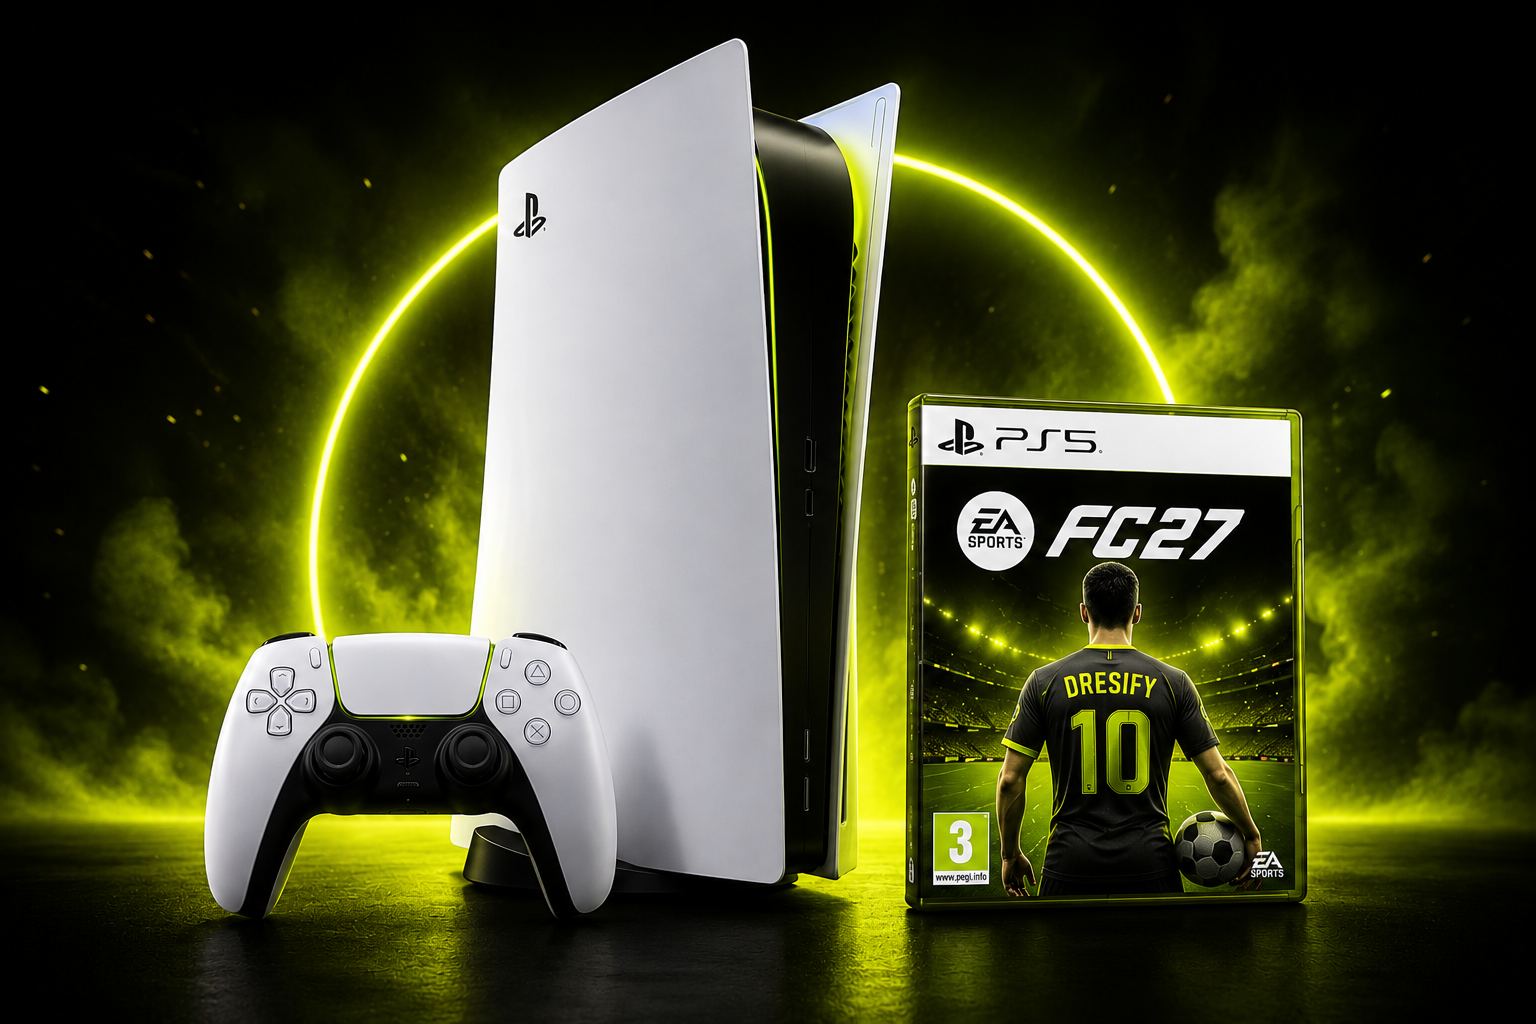
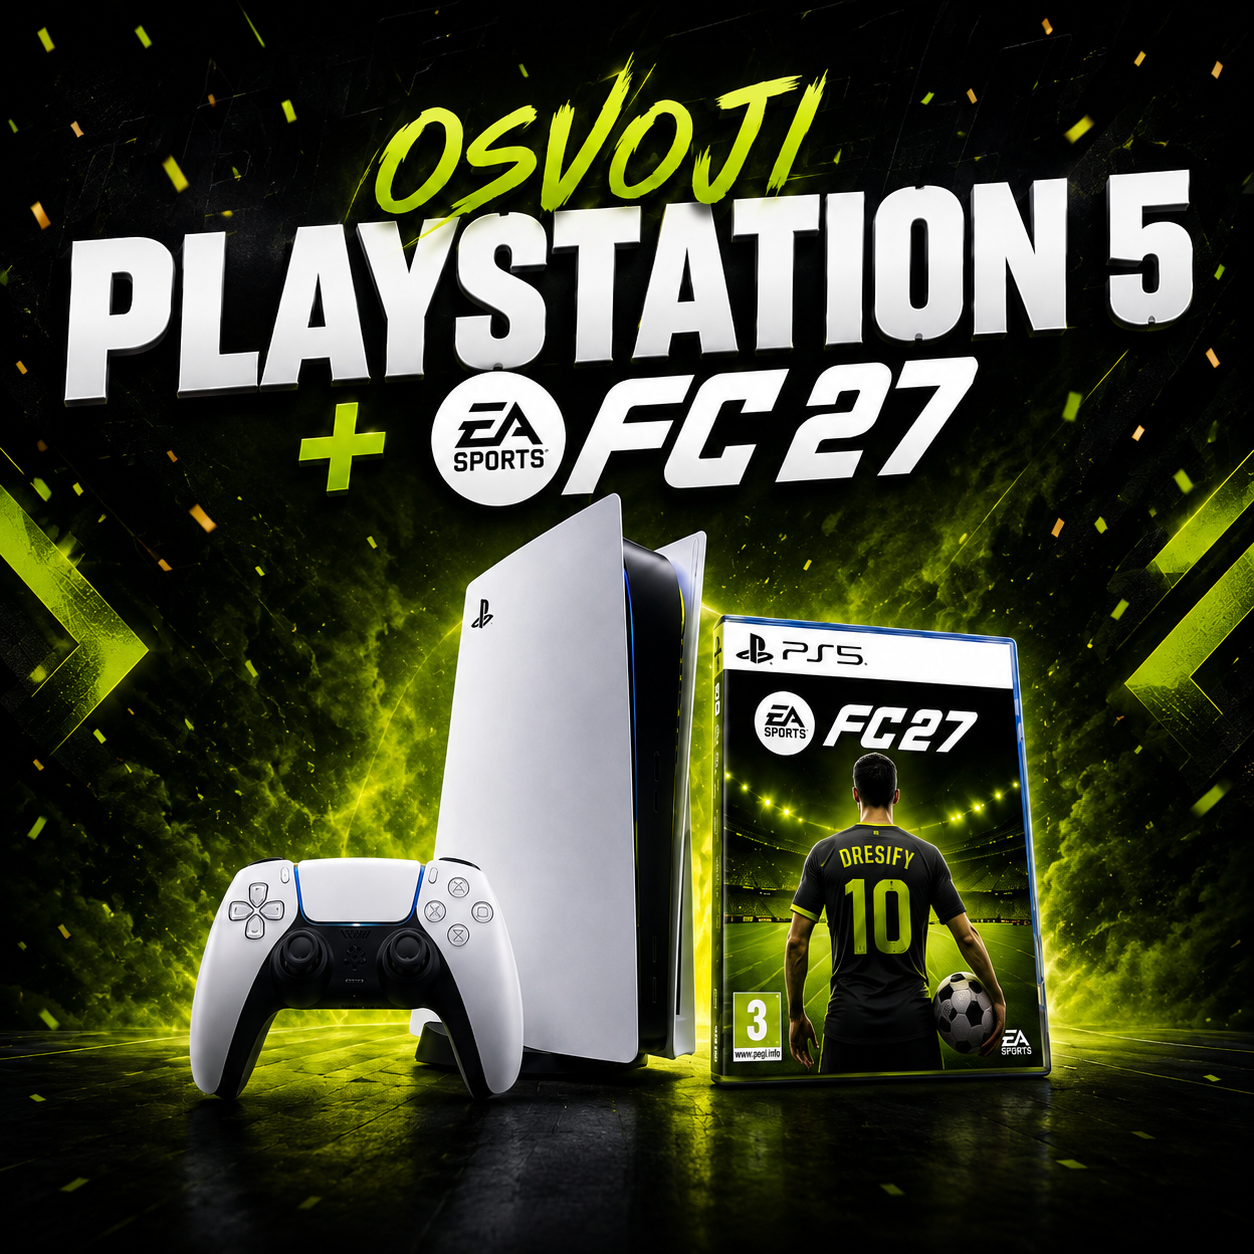
feat: new PS5 giveaway hero image + Instagram Graph API follower count
- Replace /ps5/hero.png with the new square PS5 + FC27 artwork (used by the /ps5
  page and the hero carousel slide).
- Switch follower count from the paused Behold feed to the official Instagram
  Graph API (followers_count) — free with generous limits. Needs IG_USER_ID +
  IG_GRAPH_TOKEN env; falls back to the last known value without them.

diff --git a/lib/ig-stats.ts b/lib/ig-stats.ts
@@ -2,18 +2,25 @@ import "server-only";
 
 import { unstable_cache } from "next/cache";
 
-// Broj Instagram pratitelja dolazi iz istog Behold feeda koji već koristimo za widget
-// (components/home/instagram-section.tsx). Behold JSON vraća polje `followersCount`.
-const BEHOLD_FEED = "https://feeds.behold.so/Mr4iBO03Jb1m1NL5S20x";
-const FALLBACK = 2505; // zadnja poznata vrijednost ako Behold ne odgovori (Behold pauziran zbog overage 18.8.)
+// Broj Instagram pratitelja preko službenog Meta Instagram Graph API-ja (besplatno,
+// veliki limiti — za razliku od Beholda koji je puknuo na overage). Treba u Vercel:
+//  - IG_USER_ID    → ID Instagram business računa (npr. 1784xxxxxxxxxxx)
+//  - IG_GRAPH_TOKEN→ long-lived token s dozvolom instagram_basic + pages_read_engagement
+// Ako nije postavljeno ili padne → zadnja poznata vrijednost (FALLBACK).
+const FALLBACK = 2505;
+const API_VERSION = "v21.0";
 
 const fetchFollowers = unstable_cache(
   async (): Promise<number> => {
+    const igId = process.env.IG_USER_ID;
+    const token = process.env.IG_GRAPH_TOKEN;
+    if (!igId || !token) return FALLBACK;
     try {
-      const res = await fetch(BEHOLD_FEED, { cache: "no-store", signal: AbortSignal.timeout(6000) });
+      const url = `https://graph.facebook.com/${API_VERSION}/${igId}?fields=followers_count&access_token=${encodeURIComponent(token)}`;
+      const res = await fetch(url, { cache: "no-store", signal: AbortSignal.timeout(6000) });
       if (!res.ok) return FALLBACK;
       const d = await res.json().catch(() => null);
-      const n = Number(d?.followersCount);
+      const n = Number(d?.followers_count);
       return Number.isFinite(n) && n > 0 ? n : FALLBACK;
     } catch {
       return FALLBACK;
